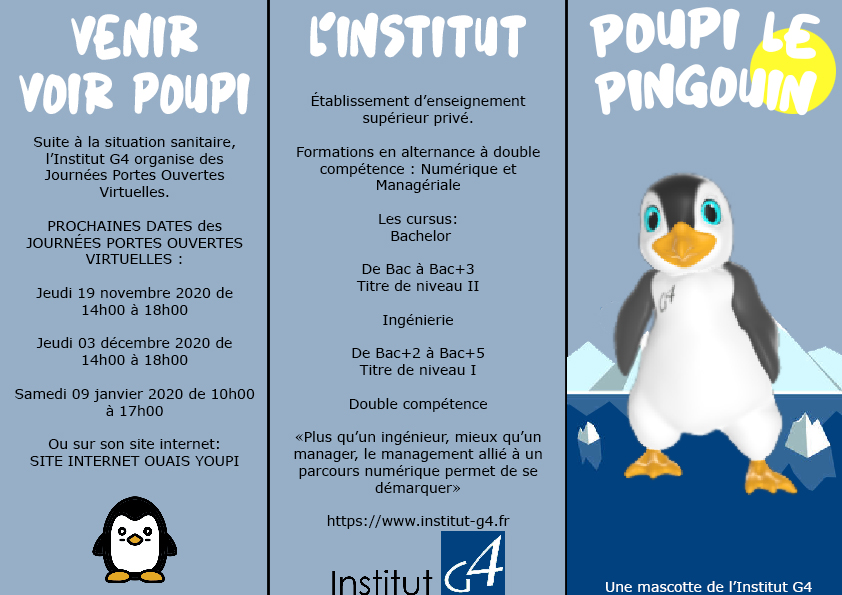
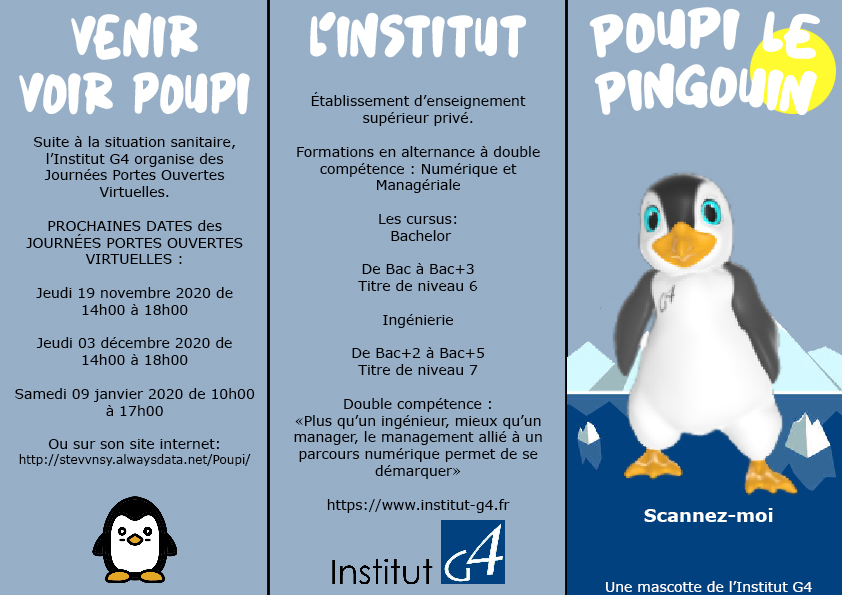
flyer v2 + liens + mailto + bug slider

diff --git a/index.html b/index.html
@@ -99,36 +99,36 @@
                         <div class="carousel-item active">
                             <img class="img-fluid img-495" src="image/phone.jpg" alt="">
                             <div class="round-footer round-ra-fb">
-                                <a href=""><i class="fa fa-facebook btn-poupi"></i></i></a>
+                                <a href="https://www.facebook.com/fbcameraeffects/testit/1251246561902912/YjcwNGRkZmM3ZjZlZGMxMmNmODM3NTFjYWQzYzBlMzY=/"><i class="fa fa-facebook btn-poupi"></i></i></a>
                             </div>
                             <div class="round-footer round-ra-insta">
-                                <a href=""><i class="fa fa-instagram btn-poupi"></i></a>
+                                <a href="https://www.instagram.com/ar/1251246561902912/?ch=YjcwNGRkZmM3ZjZlZGMxMmNmODM3NTFjYWQzYzBlMzY%3D"><i class="fa fa-instagram btn-poupi"></i></a>
                             </div>
                         </div>
                         <div class="carousel-item">
                             <img class="img-fluid img-495" src="image/phone2.jpg" alt="">
                             <div class="round-footer round-ra-fb">
-                                <a href=""><i class="fa fa-facebook btn-poupi"></i></i></a>
+                                <a href="https://www.facebook.com/fbcameraeffects/testit/375593570537165/MGU5ZWMwOGQxNjViYzE1YmVkZDkzMjg2NTYwOTE4NWU=/"><i class="fa fa-facebook btn-poupi"></i></i></a>
                             </div>
                             <div class="round-footer round-ra-insta">
-                                <a href=""><i class="fa fa-instagram btn-poupi"></i></a>
+                                <a href="https://www.instagram.com/ar/375593570537165/?ch=MGU5ZWMwOGQxNjViYzE1YmVkZDkzMjg2NTYwOTE4NWU%3D"><i class="fa fa-instagram btn-poupi"></i></a>
                             </div>
                         </div>
                         <div class="carousel-item">
                             <img class="img-fluid img-495" src="image/phone3.jpg" alt="">
                             <div class="round-footer round-ra-fb">
-                                <a href=""><i class="fa fa-facebook btn-poupi"></i></i></a>
+                                <a href="https://www.facebook.com/fbcameraeffects/testit/865338240967270/YmU1MmY0ZjM5YWE2MTYwYzE2YjAxZmM4MTAzNmM5ZGQ=/"><i class="fa fa-facebook btn-poupi"></i></i></a>
                             </div>
                             <div class="round-footer round-ra-insta">
-                                <a href=""><i class="fa fa-instagram btn-poupi"></i></a>
+                                <a href="https://www.instagram.com/ar/865338240967270/?ch=YmU1MmY0ZjM5YWE2MTYwYzE2YjAxZmM4MTAzNmM5ZGQ%3D"><i class="fa fa-instagram btn-poupi"></i></a>
                             </div>
                         </div>
                     </div>
-                    <a class="carousel-control-prev" href="#carouselExampleControls" role="button" data-slide="prev">
+                    <a class="carousel-control-prev carousel-control-prev-reseau " href="#carouselExampleControls" role="button" data-slide="prev">
                         <span class="carousel-control-prev-icon" aria-hidden="true"></span>
                         <span class="sr-only">Previous</span>
                     </a>
-                    <a class="carousel-control-next" href="#carouselExampleControls" role="button" data-slide="next">
+                    <a class="carousel-control-next carousel-control-next-reseau" href="#carouselExampleControls" role="button" data-slide="next">
                         <span class="carousel-control-next-icon" aria-hidden="true"></span>
                         <span class="sr-only">Next</span>
                     </a>
@@ -227,10 +227,11 @@
                 <p>06 78 91 23 45</p>
             </div>
             <div class="col-12 col-sm-6 col-lg-3">
+                <a class="no-style" href="mailto:san@antonio.net">
                 <div class="round-footer">
                     <i class="fa fa-envelope"></i>
                 </div>
-                <p>Mascotte-g4@gmail.com</p>
+                <p>Mascotte-g4@gmail.com</a></p>
             </div>
             <div class="col-12 col-sm-6 col-lg-3">
                 <div class="round-footer">
@@ -269,6 +270,9 @@
                         <div class="carousel-item">
                             <img class="d-block w-100" src="image/flyer-page2.jpg" alt="First slide">
                         </div>
+                        <div class="carousel-item">
+                            <img class="d-block m-auto" src="image/scan.png" alt="First slide">
+                        </div>
                     </div>
                     <a class="carousel-control-prev" href="#carouselExampleIndicators" role="button" data-slide="prev">
                         <span class="carousel-control-prev-icon" aria-hidden="true"></span>
@@ -291,7 +295,8 @@
 
 <section class="footer col-12">
     <p class="footer-text">
-        Nom d'équipe  - Cercle de Projet 2020
+        Cercle de Projet 2020
+        <a href="https://www.institut-g4.fr/"><img class="g4logo" src="https://www.institut-g4.fr/wp-content/uploads/2017/10/G4-v1-200px.png" alt="logo"></a>
     </p>
 </section>
 

diff --git a/style.css b/style.css
@@ -145,11 +145,43 @@ section.footer {
     color: black;
 }
 
+.g4logo {
+    height: 30px;
+    -webkit-filter: grayscale(100%);
+    filter: grayscale(100%);
+}
+
+.m-auto {
+    padding-top: 40px;
+    padding-bottom: 40px;
+}
+
 .landing-text {
     position: absolute;
     top: 85%;
     font-weight: bold;
     color: black;
+}
+
+.carousel-control-next-reseau {
+    height: 15px;
+    position: absolute;
+    top: 50%;
+}
+
+.carousel-control-prev-reseau {
+    height: 15px;
+    position: absolute;
+    top: 50%;
+}
+
+.no-style {
+    color: white;
+}
+
+.no-style:hover {
+    color: white;
+    text-decoration: none;
 }
 
 .landing-text-clic {
@@ -220,6 +252,18 @@ section.footer {
     bottom: 15px;
     right: 25px;
     background: white !important;
+}
+
+/* responsive */
+
+@media (min-width: 1450px) {
+    .round-ra-fb {
+        bottom: 30px;
+    }
+
+    .round-ra-insta {
+        bottom: 30px;
+    }
 }
 
 .round-ra-insta i {
@@ -301,6 +345,7 @@ section.footer {
 .fa-download {
     padding-top: 0px !important;
 }
+
 #nyan-btn {
     width: 100%;
     height: 100%;
@@ -342,16 +387,6 @@ section.footer {
         bottom: 25px;
         right: 5px;
     }
-}
-
-@media (max-width: 765px) {
-    .mobile-margin-top {
-        margin-top: 35px;
-    }
-
-    .mobile-hidden {
-        display: none;
-    }
 
     .round-ra-fb {
         height: 50px;
@@ -371,6 +406,16 @@ section.footer {
     .round-ra-insta i{
         font-size: 100% !important;
         margin-top: 18px;
+    }
+}
+
+@media (max-width: 765px) {
+    .mobile-margin-top {
+        margin-top: 35px;
+    }
+
+    .mobile-hidden {
+        display: none;
     }
 }
 
